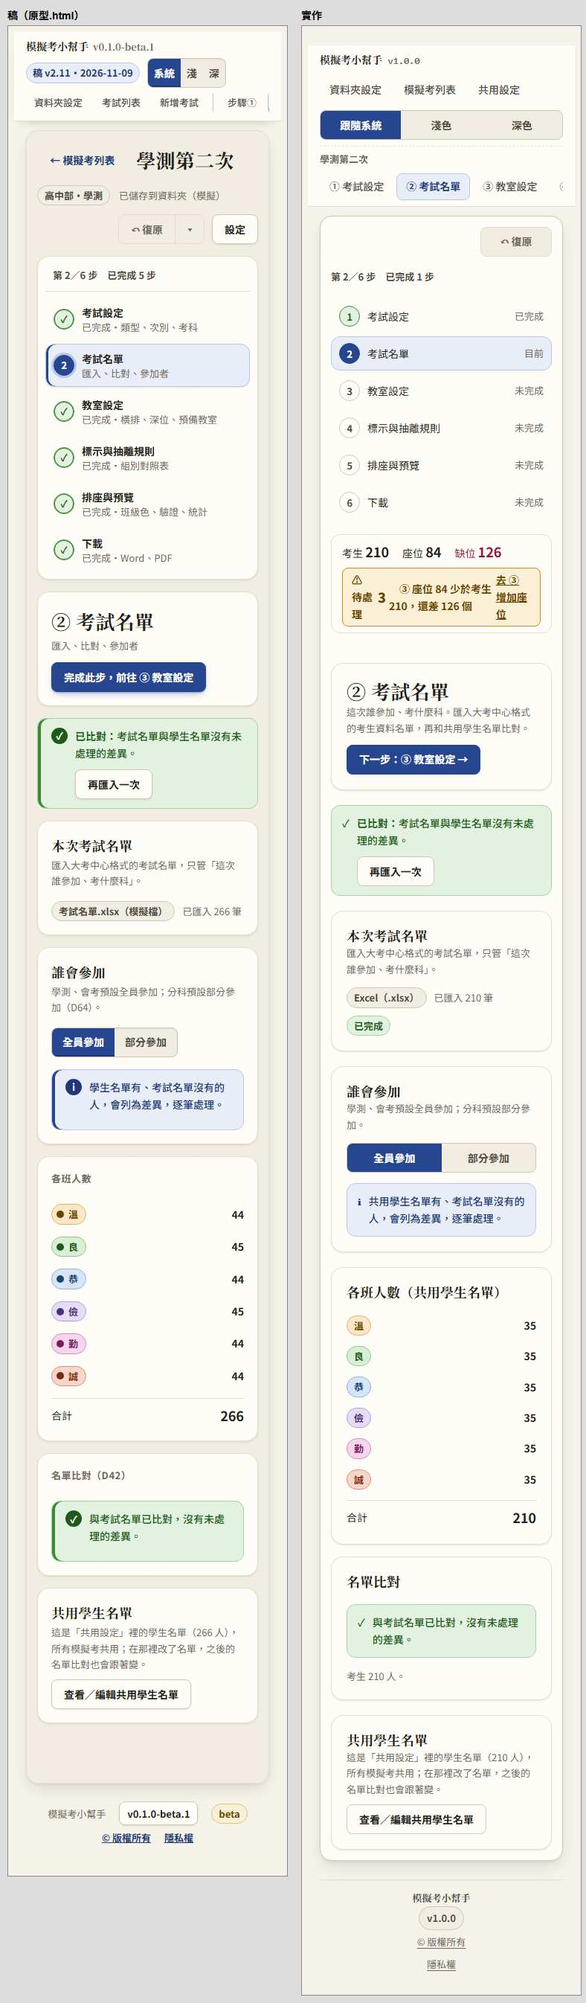
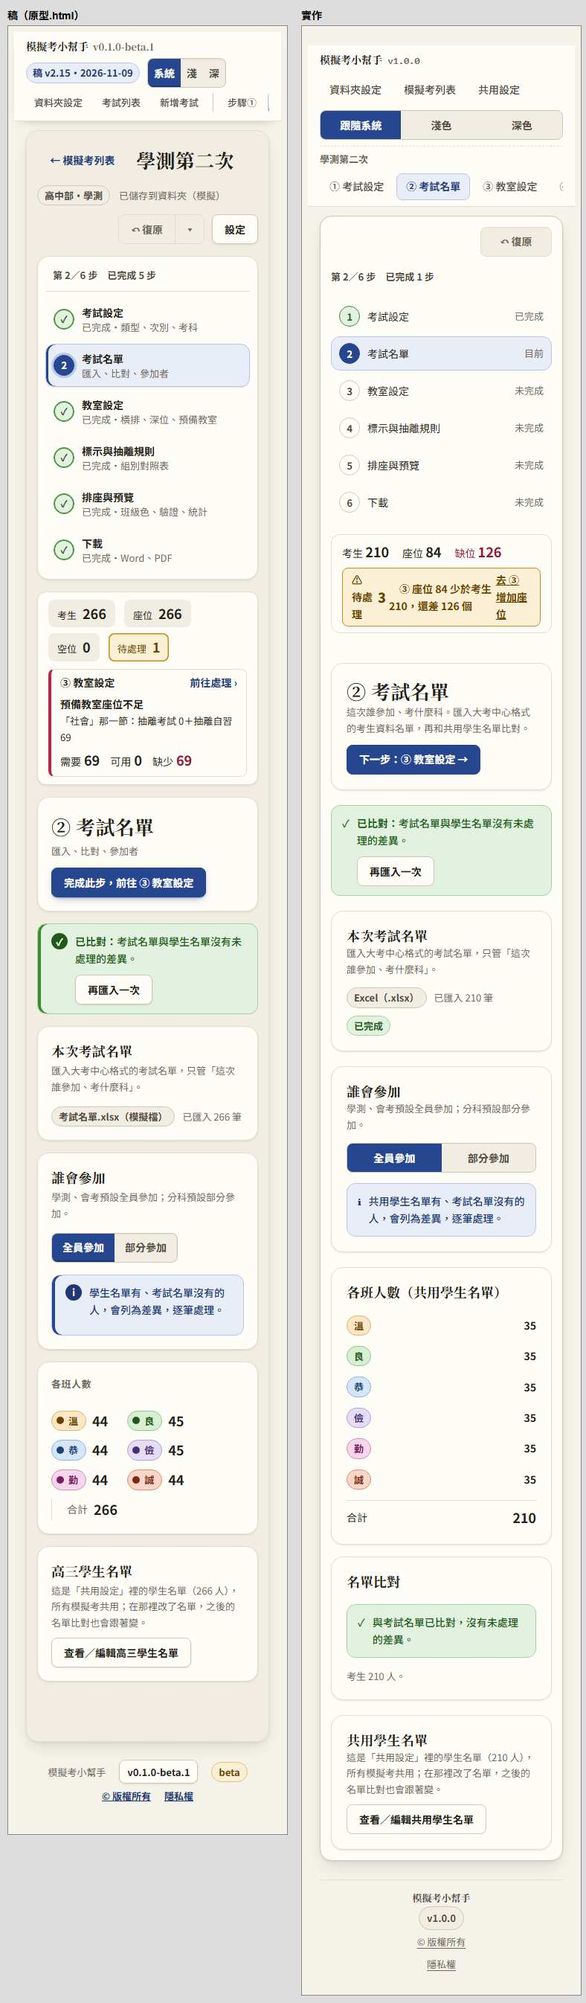
docs: 對稿-甲改依稿 v2.15 重驗（新增摘要列、學生名單命名、Chrome、拖放區等）

Changed region(s): [[0.0609, 0.2808, 0.4569, 0.9361], [0.3655, 0.8737, 0.4264, 0.9361]]

diff --git a/docs/design/實作對稿/對稿-甲.md b/docs/design/實作對稿/對稿-甲.md
@@ -1,111 +1,109 @@
-# 對稿-甲：實作 vs 稿（資料夾設定、考試列表、新增考試、步驟①、步驟②）
+# 對稿-甲（第二版，依稿 v2.15）：初始化、考試列表、新增考試、步驟①、步驟②
 
-基準：`origin/main` cf67141，稿 v2.11（`docs/design/mockups/原型.html` 版面基準、`設計系統.html` 元件／資訊基準）。稿以定案為準，實作要改成一致。
-方法：`scripts/compare-shots`（複製到暫存、改埠避免與其他對稿員撞埠）起 vite，headless Chrome 開稿與實作，淺色 375／1280 並排截圖（初始化、列表另有 820 與深色），並用腳本擷取兩邊的文字與按鈕尺寸逐項比對。所有資料為假資料（seed 的「甲生」「範例高中」），截圖在 `docs/design/實作對稿/截圖-甲/`（檔名＝頁名-寬度，左稿右實作）。
+基準：`origin/main` fe65909，稿 **v2.15**（`docs/design/mockups/原型.html` 版面、`設計系統.html` 元件與資訊）。第一版（稿 v2.11／main cf67141，ffb4d9e）已逐項重驗；`git diff cf67141 fe65909 -- src` 為空，**實作自上一版沒有任何改動**，所以第一版的實作端結論仍成立，只有稿端變了。
+規則：稿為準；稿上 D 編號與註解文字不進實作；`.pending` 不比；稿與規格衝突另列。
+方法：同第一版（`scripts/compare-shots` 複製到暫存、改埠，headless Chrome 開稿與實作，並排截圖＋文字與按鈕尺寸擷取）。截圖在 `截圖-甲/`（檔名＝頁名-寬度[深]，左稿右實作，淺色 375／820／1280，深色同寬）。全為假資料。**seed 假資料造成的差異（考科、人數、日期、座位數）不算**。
 
-**重要前提：seed 的假資料造成的差異不算**（例如學測第三次的考科顯示成「數學＋英聽」、各班人數、學生名單 0 人、日期、考生數）。下列只列畫面與行為差異。
+> **範圍說明**：調度員派工寫的負責頁面是「計畫頁・設定頁・初始化」，但本檔底稿與第一版範圍是「初始化、列表、新增考試、步驟①②」。本版沿用本檔範圍重驗；**計畫頁（拉皮稿）與設定頁未納入**，需調度員確認是否另派。
 
-## 一、差異總表（共 39 列；其中 A5、E10、E11、F6、F7 屬稿未定或未驗，不計入確定差異，確定差異 34 項：高 8、中 11、低 15）
+標記：仍成立／**過時**（稿已修掉或已不成立）／**新增**（v2.12～v2.15 帶來）／**衝突**。嚴重度：高＝肉眼一看就不同或功能缺；中＝元件或版面細部；低＝文字用詞。
 
-嚴重度：高＝肉眼一看就不同／功能缺；中＝元件或版面細部不同；低＝文字用詞。
+## 一、新增（v2.12～v2.15，屬本檔範圍）
 
-### A. 全頁共通（步驟①②都會遇到）
-
-| # | 類型 | 稿 | 實作 | 要改的地方 | 嚴重度 | 截圖 |
+| # | 類型 | 稿＝ | 實作＝ | 檔案 | 嚴重度 | 截圖 |
 |---|---|---|---|---|---|---|
-| A1 | UI | 步驟頁最上方一列標題列：「← 模擬考列表」＋考試名稱大標題＋類型 badge＋「已儲存到資料夾」＋「↶ 復原 ▾」＋「設定」鈕，整列在大外框內、左側欄之上 | 沒有這一列。考試名稱與 badge 改放在全站導覽下的次導覽列（名稱＋badge＋①～⑥ 分頁鈕）；「復原」單獨一列靠右；沒有「已儲存」、沒有「設定」入口、沒有返回列表鈕 | `App.tsx`、`StepSide.tsx`、步驟外框元件 | 高 | 04步驟①-1280 |
-| A2 | UI | 全站導覽只有稿工具列（稿特有，不算差異） | 實作多一排「① 考試設定 … ⑥ 下載」分頁鈕，與左側步驟欄重複 | 次導覽列（見 A1），稿沒有這排 | 中 | 04步驟①-1280 |
-| A3 | UI | 左側步驟欄：每項兩行——標題＋狀態與說明（如「已完成・匯入、比對、參加者」「過期・班級色、驗證、統計」），圖示 ✓／!／數字；欄寬約 208 | 每項一行：數字圓＋標題＋靠右的狀態字（目前／已完成／未完成），沒有說明文字、沒有「過期」「不需要」狀態、沒有 ✓／! 圖示；欄寬約 230 | `StepSide.tsx` 步驟列元件 | 高 | 04步驟①-1280、04步驟①-375 |
-| A4 | UI | 「第 1／6 步　已完成 4 步」在步驟欄頂端（兩邊都有，一致） | — | — | — | — |
-| A5 | UI | 沒有常駐摘要列（稿修正-todo B12，使用者尚待裁示） | 步驟欄上方多一列「考生 N 座位 N 空位 N 待處理 N」 | 列入「稿未定」；若使用者裁示不保留，實作要拿掉 | — | 04步驟①-1280 |
-| A6 | UI | 「下一步」鈕文字「完成此步，前往 ② 考試名單」，位於步驟標題卡右側 | 位置相同，文字「下一步：② 考試名單 →」 | 步驟標題卡 | 低 | 04步驟①-1280 |
-| A7 | UI | 步驟標題卡副標一句：「類型、次別、考科」「匯入、比對、參加者」（與步驟欄說明同源） | 副標是整句說明（「名稱、學期、次別與考科表；考科表決定…」「這次誰參加、考什麼科。匯入大考中心格式的考生資料名單…」） | 兩個步驟頁的標題卡文字 | 低 | 04步驟①-1280 |
-| A8 | UI | 稿的復原鈕在標題列，為「↶ 復原」＋「▾」（歷史）；列表頁沒有復原鈕 | 復原鈕在每頁（含新增考試、列表）頁面上方獨立一列靠右，沒有「▾」 | 復原按鈕元件與擺放位置 | 中 | 02模擬考列表-820、03新增模擬考-1280 |
-| A9 | UI | 右側「本次摘要」大字「上學期」單行 | 1280 寬時摘要欄太窄，「上學期／下學期」32px 大字折成兩行（「上學／期」），375 寬正常 | 摘要卡欄寬或字級；稿 v2.2 曾特別修過「學期單行」 | 高 | 04步驟①-1280、04d分科步驟①-1280 |
+| N1 | UI＋行為 | **常駐摘要列**（v2.12/v2.13/v2.15）：步驟內容上方，四格 chip「考生 266／座位 266／空位 0／待處理 1」，待處理為琥珀鈕可點跳第一個問題；其下「待處理逐項」卡：步驟（③ 教室設定）、項目標題（預備教室座位不足）、細節（「社會」那一節：抽離考試 0＋抽離自習 71）、右側「需要 71／可用 0／缺少 71」與「前往處理 ›」；未完成的步驟也算待處理；空位不足改「缺位」紅字；未匯入顯示「尚未匯入考試名單」 | 單行：左「考生 N 座位 N 缺位 N」，右一個琥珀框「⚠ 待處理 3　③ 座位 84 少於考生 210，還差 126 個　去 ③ 增加座位」。沒有四格 chip 樣式、沒有逐項卡、沒有「需要／可用／缺少」三欄、「前往處理」是行內底線連結；待處理只顯示第一項的一句話 | 摘要列元件（`.sumbar`）、`StepSide.tsx` | 高 | 04b步驟②待處理-1280、04步驟①-1280 |
+| N2 | UI | 步驟② 各班人數：**一排橫向班級 chip**（● 溫 44　● 良 45 … 合計 266），一張小卡 | 一張卡片，6 列直式表格（班級色圓＋人數）＋合計，與「名單比對」卡並排佔兩欄 | `Step2.tsx` | 中 | 04步驟②-1280、04b步驟②待處理-1280 |
+| N3 | UI | 步驟② **底部沒有「名單比對」小卡**（v2.15⑤，頂端比對結果提示條已涵蓋） | 仍有「名單比對」卡：「與考試名單已比對…」＋「考生 210 人。」 | `Step2.tsx` | 中 | 04步驟②-1280 |
+| N4 | 文字 | 學生名單命名依部別：步驟②卡片「**高三學生名單**／**國三學生名單**」，按鈕「查看／編輯高三學生名單」；步驟①沿用表「高三學生名單 266 人」 | 「共用學生名單」「查看／編輯共用學生名單」；步驟①沿用表「學生名單快照 210 人」；各班人數卡標題「各班人數（共用學生名單）」 | `Step2.tsx`、`Step1.tsx`、`carry.ts` | 中 | 04步驟②-1280 |
+| N5 | 文字＋元件 | 初始化：「**限使用 Chrome 瀏覽器**」，「Chrome」是連結（`https://www.google.com/intl/zh-TW/chrome/`，另開分頁） | 「需要 Chrome 瀏覽器」，純文字無連結 | `Init.tsx:56` | 中 | 01初始化-1280 |
+| N6 | UI | 初始化拖放區再加大：`min-height:clamp(280px,48vh,520px)`、padding 44/24（1280×900 約 580×430） | `clamp(200px,34vh,380px)`、padding 28/20（約 582×306） | `src/styles/app.css:206` | 中 | 01初始化-1280、01初始化-1280深 |
+| N7 | 文字 | 畫面上不再出現內部決定編號：稿已拿掉「（D52）」「（D34）」「（D42）」「（D64）」 | 實作本來就沒有（一致）。**第一版「稿疑似有誤」1、2 兩項過時** | — | — | — |
 
-### B. 資料夾設定（初始化）
+## 二、全頁共通（步驟①②都會遇到）
 
-| # | 類型 | 稿 | 實作 | 檔案 | 嚴重度 | 截圖 |
-|---|---|---|---|---|---|---|
-| B1 | UI | 大外框底色為米色（頁底），白卡片置於其上，層次明顯 | 外框與卡片同為近白，層次不明顯，看起來比稿「平」 | 外框 CSS（`app.css` 的 `.wrap`／卡片底） | 中 | 01初始化-1280 |
-| B2 | UI | 底部「原型說明」一段（稿特有，不算差異） | — | — | — | — |
-| B3 | 文字 | 提示：「每次模擬考都會在這個資料夾裡自己放一個資料夾，不同次的資料不會互相蓋掉。」 | 「…另外建立一個獨立的資料夾…」 | `Init.tsx` | 低 | 01初始化-1280 |
-| B4 | UI | 拖拉框、「或者／選擇資料夾／繼續使用上次的資料夾」列、尺寸（582×306，clamp(200px,34vh,380px)）：**一致** | 一致 | — | — | — |
+| # | 類型 | 稿＝ | 實作＝ | 檔案 | 嚴重度 | 狀態 | 截圖 |
+|---|---|---|---|---|---|---|---|
+| A1 | UI | 步驟頁最上方標題列：「← 模擬考列表」＋考試名稱大標題＋類型 badge＋「已儲存到資料夾」＋「↶ 復原 ▾」＋「設定」鈕 | 沒有這列；名稱與 badge 放在全站導覽下次導覽列；「復原」另起一列靠右；無「已儲存」、無「設定」入口、無返回列表鈕 | `App.tsx`、`StepSide.tsx` | 高 | 仍成立 | 04步驟①-1280 |
+| A2 | UI | 沒有「① 考試設定 … ⑥ 下載」分頁鈕列 | 次導覽列多一排分頁鈕，與左側步驟欄重複 | 次導覽列 | 中 | 仍成立 | 04步驟①-1280 |
+| A3 | UI | 左側步驟欄每項兩行：標題＋狀態與說明（如「已完成・匯入、比對、參加者」「過期・班級色、驗證、統計」）；✓／!／數字圖示；欄寬約 208 | 每項一行：數字圓＋標題＋靠右狀態字（目前／已完成／未完成），沒有說明、沒有「過期」「不需要」狀態與 ✓／! 圖示；欄寬約 230 | `StepSide.tsx` | 高 | 仍成立 | 04步驟①-1280、04步驟①-375 |
+| A5 | — | 摘要列已定案（見 N1） | — | — | — | **過時**（第一版列為稿未定，現已定案，改併入 N1） | — |
+| A6 | 文字 | 下一步鈕「完成此步，前往 ② 考試名單」，在步驟標題卡右側 | 位置相同；文字「下一步：② 考試名單 →」 | 步驟標題卡 | 低 | 仍成立 | 04步驟①-1280 |
+| A7 | 文字 | 標題卡副標一句：「類型、次別、考科」「匯入、比對、參加者」 | 整句說明（「名稱、學期、次別與考科表；…」「這次誰參加、考什麼科。匯入大考中心格式的考生資料名單…」） | 兩個步驟頁標題卡 | 低 | 仍成立 | 04步驟①-1280 |
+| A8 | UI | 復原鈕在標題列，「↶ 復原」＋「▾」歷史；列表頁沒有復原鈕 | 復原鈕在每頁（含列表、新增考試）頁頂獨立一列靠右，無「▾」 | 復原按鈕元件 | 中 | 仍成立 | 02模擬考列表-820、03新增模擬考-1280 |
+| A9 | UI | 右側「本次摘要」大字「上學期」單行 | 1280 寬時「上學期／下學期」32px 大字折成兩行；375 寬正常 | 摘要卡欄寬／字級 | 高 | 仍成立 | 04步驟①-1280 |
 
-### C. 考試列表
+## 三、初始化
 
-| # | 類型 | 稿 | 實作 | 檔案 | 嚴重度 | 截圖 |
-|---|---|---|---|---|---|---|
-| C1 | UI | 資料夾路徑 chip 顯示完整路徑「D:\模擬考資料」 | 只顯示資料夾名「模擬考資料」（瀏覽器取不到完整路徑，可能是平台限制；需裁示是否接受） | `Exams.tsx` | 低 | 02模擬考列表-820 |
-| C2 | UI | 列表頁頁首沒有復原鈕 | 多一個「↶ 復原」（見 A8） | `Exams.tsx` | 中 | 02模擬考列表-820 |
-| C3 | 文字 | 進度文字「進行中：排座與預覽」 | 「進行中：③ 教室設定」，多了圈號 | `examList.ts` | 低 | 02模擬考列表-820 |
-| C4 | UI | 頁首兩列：全站導覽、標題與按鈕在外框內 | 實作導覽在外框外，標題在框內，與稿相同；版面一致 | — | — | — |
+| # | 類型 | 稿＝ | 實作＝ | 檔案 | 嚴重度 | 狀態 | 截圖 |
+|---|---|---|---|---|---|---|---|
+| B1 | UI | 大外框米色底，白卡片置於其上，層次明顯 | 外框與卡片同為近白，層次不明顯 | `app.css` 外框／卡片底 | 中 | 仍成立 | 01初始化-1280 |
+| B3 | 文字 | 「…裡自己放一個資料夾，不同次的資料不會互相蓋掉。」 | 「…另外建立一個獨立的資料夾…」 | `Init.tsx` | 低 | 仍成立 | 01初始化-1280 |
+| （拖拉框與「或者／選擇資料夾／繼續使用上次的資料夾」列的位置、樣式一致；尺寸見 N6；Chrome 字樣見 N5） | | | | | | | |
 
-（列表卡片、六格進度、圖例、頁尾版本號鈕、開啟鈕：與稿一致。）
+## 四、考試列表
 
-### D. 新增考試
+| # | 類型 | 稿＝ | 實作＝ | 檔案 | 嚴重度 | 狀態 | 截圖 |
+|---|---|---|---|---|---|---|---|
+| C1 | UI | 路徑 chip 顯示「D:\模擬考資料」 | 只顯示「模擬考資料」（瀏覽器取不到完整路徑，平台限制；列為「需使用者決定」） | `Exams.tsx` | 低 | 仍成立 | 02模擬考列表-820 |
+| C2 | UI | 列表頁沒有復原鈕 | 多一個「↶ 復原」（見 A8） | `Exams.tsx` | 中 | 仍成立 | 02模擬考列表-820 |
+| C3 | 文字 | 進度「進行中：排座與預覽」 | 「進行中：③ 教室設定」，多圈號 | `examList.ts` | 低 | 仍成立 | 02模擬考列表-820 |
 
-| # | 類型 | 稿 | 實作 | 檔案 | 嚴重度 | 截圖 |
-|---|---|---|---|---|---|---|
-| D1 | 元件 | 「學期」是並排選項卡：「上學期［已選］」「下學期」（寬約 132／76，高 45） | 原生 `<select>` 下拉（262×40） | `NewExam.tsx:68`（`<select id="exam-term">`） | 高 | 03新增模擬考-1280 |
-| D2 | 文字 | 學期下方說明：「學測預設上學期、分科預設下學期（切換類型時自動帶入，仍可自己改）；學年度依今天的日期自動算：115 學年」 | 只有「學年度依今天的日期自動算：115 學年」，沒有預設說明 | `NewExam.tsx` | 中 | 03新增模擬考-1280 |
-| D3 | 文字 | 會考卡：「…（固定七科），不分文理組、沒有選考」 | 「…（固定七科），沒有選考」，少「不分文理組」 | `NewExam.tsx` 類型卡文字 | 低 | 03新增模擬考-1280 |
-| D4 | 文字 | 第 3 張卡說明：「會帶入『某某』的設定：學生名單、教室、標示與抽離規則、名稱以外的選項」 | 「會帶入『某某』的設定：教室、標示與抽離規則、參加方式、標籤格式與自訂考科」，內容不同（且稿寫的是學生名單） | `NewExam.tsx` | 中 | 03新增模擬考-1280 |
-| D5 | UI | 「← 回模擬考列表」按鈕高 40、寬 135（正常按鈕） | 高 32、寬 115（小按鈕尺寸） | `NewExam.tsx` 頁首鈕 | 低 | 03新增模擬考-1280 |
-| D6 | UI | 第 3 張卡說明沒有圖示（單純文字） | 帶 ℹ 圖示的 info alert | `NewExam.tsx` | 低 | 03新增模擬考-1280 |
-| D7 | 行為 | 切換類型時學期自動帶入（學測上、分科下）、手動改後不再自動 | 邏輯已有（`defaultSemester`、`semEdited`），行為一致 | — | — | — |
+## 五、新增考試
 
-### E. 步驟① 考試設定
+| # | 類型 | 稿＝ | 實作＝ | 檔案 | 嚴重度 | 狀態 | 截圖 |
+|---|---|---|---|---|---|---|---|
+| D1 | 元件 | 「學期」並排選項卡（「上學期［已選］」「下學期」，高 45） | 原生 `<select>` 下拉（262×40） | `NewExam.tsx:68` | 高 | 仍成立 | 03新增模擬考-1280 |
+| D2 | 文字 | 學期說明：「學測預設上學期、分科預設下學期（切換類型時自動帶入，仍可自己改）；學年度依今天的日期自動算：115 學年」 | 只有「學年度依今天的日期自動算：115 學年」 | `NewExam.tsx` | 中 | 仍成立 | 03新增模擬考-1280 |
+| D3 | 文字 | 會考卡「…（固定七科），不分文理組、沒有選考」 | 「…沒有選考」，少「不分文理組」 | `NewExam.tsx` | 低 | 仍成立 | 03新增模擬考-1280 |
+| D4 | 文字 | 第 3 張卡：「會帶入『某某』的設定：學生名單、教室、標示與抽離規則、名稱以外的選項」 | 「…：教室、標示與抽離規則、參加方式、標籤格式與自訂考科」，內容不同 | `NewExam.tsx` | 中 | 仍成立 | 03新增模擬考-1280 |
+| D5 | UI | 「← 回模擬考列表」高 40、寬 135 | 高 32、寬 115（小按鈕） | `NewExam.tsx` | 低 | 仍成立 | 03新增模擬考-1280 |
+| D6 | UI | 第 3 張卡說明沒有圖示 | 帶 ℹ 圖示 info alert | `NewExam.tsx` | 低 | 仍成立 | 03新增模擬考-1280 |
 
-| # | 類型 | 稿 | 實作 | 檔案 | 嚴重度 | 截圖 |
-|---|---|---|---|---|---|---|
-| E1 | 元件 | 「學期」並排選項卡（同 D1），名稱與學期在同一列兩欄 | `<select>`，欄位為上下兩欄（名稱列、學期列堆疊） | `Step1.tsx` | 高 | 04步驟①-1280 |
-| E2 | UI | 基本資料沒有卡片標題；直接是欄位（在步驟標題卡之下的卡片內） | 卡片有 h3「基本資料」＋副標「類型建立後不可更改。」 | `Step1.tsx` | 低 | 04步驟①-1280 |
-| E3 | 文字 | 學期說明：「學測預設上學期、分科預設下學期；學年度（115）依建立日期自動算」 | 「學年度依建立日期自動算」，沒有預設說明、沒有學年度數字 | `Step1.tsx` | 中 | 04步驟①-1280 |
-| E4 | 文字 | 「類型與對象」：「高中部・學測」「高三」 | 「學測」「高三」，少「高中部・」 | `Step1.tsx` | 低 | 04步驟①-1280 |
-| E5 | 文字 | 次別說明：「第 1、2 次數學是單一科，第 3 次起分為數學A、數學B」 | 「第 1、2 次：數學為單一科，另考英聽　｜　第 3 次起：數學分為數學A、數學B」 | `Step1.tsx` | 低 | 04步驟①-1280 |
-| E6 | UI | 375 寬次別鈕一排四顆等寬 | 375 寬時四顆鈕擠成窄鈕，字折行（「第一／次」） | `Step1.tsx` 次別 seg 鈕 | 中 | 04步驟①-375 |
-| E7 | 文字 | 考科表標題「考科表」，副標「依類型與次別自動帶出，可以新增、編輯、刪除（D52）」（D52 為稿內部字樣） | 標題「本次考科表」，副標「…；只影響這一次模擬考。」 | `Step1.tsx` | 低 | 04步驟①-1280 |
-| E8 | 文字 | 沿用表第二列：「共用學生名單 266 人；…」；第四列：「數學由單一科改為數學A、數學B，組別對照表要重新確認」 | 「學生名單快照 210 人；…」（D84：現況應稱「共用學生名單」）；「數學分科方式與上次不同…」 | `Step1.tsx` 沿用表、`carry.ts` | 中 | 04步驟①-1280 |
-| E9 | UI | 摘要卡副標：「高中部・學測・115 學年・高三」 | 「學測・115 學年・高中部」，順序與內容不同 | `StepSide.tsx` | 低 | 04步驟①-1280 |
-| E10 | 行為 | 沒有「次別改了，④ 已標為過期」的警示卡 | 摘要欄下方多一張琥珀警示卡（可能是改次別後才有；seed 觸發） | `StepSide.tsx` | 低 | 04步驟①-1280 |
-| E11 | UI | 分科：次別欄標「分科有沒有次別…還沒確認」（`.pending`，稿未定，見第三節） | 沒有次別欄 | — | — | 04d分科步驟①-1280 |
-| E12 | 文字／UI | 分科考科表上方有一則說明 alert：「分科八科都是選考：數學甲…；國文、英文不加考（採學測成績）。每位考生考哪幾科，依考試名單的「組別／考科」文字決定…」 | 沒有這則 alert（會考、學測有 alert，分科缺） | `Step1.tsx` | 中 | 04d分科步驟①-1280 |
+## 六、步驟① 考試設定
 
-### F. 步驟② 考試名單
+| # | 類型 | 稿＝ | 實作＝ | 檔案 | 嚴重度 | 狀態 | 截圖 |
+|---|---|---|---|---|---|---|---|
+| E1 | 元件 | 學期並排選項卡；名稱與學期同一列兩欄 | `<select>`；名稱列、學期列上下堆疊 | `Step1.tsx` | 高 | 仍成立 | 04步驟①-1280 |
+| E2 | UI | 基本資料沒有卡片標題 | 卡片有 h3「基本資料」＋副標 | `Step1.tsx` | 低 | 仍成立 | 04步驟①-1280 |
+| E3 | 文字 | 「學測預設上學期、分科預設下學期；學年度（115）依建立日期自動算」 | 「學年度依建立日期自動算」 | `Step1.tsx` | 中 | 仍成立 | 04步驟①-1280 |
+| E4 | 文字 | 「高中部・學測」「高三」 | 「學測」「高三」 | `Step1.tsx` | 低 | 仍成立 | 04步驟①-1280 |
+| E5 | 文字 | 「第 1、2 次數學是單一科，第 3 次起分為數學A、數學B」 | 「第 1、2 次：數學為單一科，另考英聽　｜　第 3 次起：…」 | `Step1.tsx` | 低 | 仍成立 | 04步驟①-1280 |
+| E6 | UI | 375 寬次別鈕一排四顆等寬 | 375 寬四顆鈕過窄、字折行（「第一／次」） | `Step1.tsx` | 中 | 仍成立 | 04步驟①-375 |
+| E7 | 文字 | 標題「考科表」，副標「依類型與次別自動帶出，可以新增、編輯、刪除」（v2.15 已去掉 D52） | 標題「本次考科表」，副標多「；只影響這一次模擬考。」 | `Step1.tsx` | 低 | 仍成立（稿已去 D52，只剩標題與副標差異） | 04步驟①-1280 |
+| E8 | 文字 | 沿用表：「高三學生名單 266 人；…」「數學由單一科改為數學A、數學B，組別對照表要重新確認」 | 「學生名單快照 210 人；…」「數學分科方式與上次不同…」 | `Step1.tsx`、`carry.ts` | 中 | 仍成立（名稱見 N4） | 04步驟①-1280 |
+| E9 | 文字 | 摘要卡副標「高中部・學測・115 學年・高三」 | 「學測・115 學年・高中部」 | `StepSide.tsx` | 低 | 仍成立 | 04步驟①-1280 |
+| E10 | 行為 | 沒有「次別改了，④ 已標為過期」警示卡 | 摘要欄下多一張琥珀警示卡（改次別後出現） | `StepSide.tsx` | 低 | 仍成立（是否算實作多餘，待使用者裁示；稿未畫） | 04步驟①-1280 |
+| E12 | 文字／UI | 分科考科表上方 alert：「分科八科都是選考：數學甲…；國文、英文不加考（採學測成績）。每位考生考哪幾科，依考試名單的「組別／考科」文字決定…」 | 沒有這則 alert | `Step1.tsx` | 中 | 仍成立 | 04d分科步驟①-1280 |
 
-| # | 類型 | 稿 | 實作 | 檔案 | 嚴重度 | 截圖 |
-|---|---|---|---|---|---|---|
-| F1 | 文字 | 檔名 badge：「考試名單.xlsx（模擬檔）」 | 「Excel（.xlsx）」＋多一個「已完成」badge | `Step2.tsx` | 低 | 04步驟②-1280 |
-| F2 | 文字 | 「各班人數」 | 「各班人數（共用學生名單）」 | `Step2.tsx` | 低 | 04步驟②-1280 |
-| F3 | 文字 | 「名單比對（D42）」（內部編號，稿字樣） | 「名單比對」＋多一行「考生 210 人。」 | `Step2.tsx` | 低 | 04步驟②-1280 |
-| F4 | UI | 「誰會參加」下的提示：全員參加為純文字，部分參加為提示 | 兩種皆為 ℹ info alert（版型略不同）；文字也不同（稿：「沒報名的人不算差異，只在統計列顯示「未參加 12 人」…」；實作：「共用學生名單裡有、但不在本次考試名單的人，不視為名單錯誤，只在…」） | `Step2.tsx:178 附近` | 低 | 04d分科步驟②-1280 |
-| F5 | UI | 分科：「匯入預覽：組別／考科」整張卡（說明＋六列預覽表：班級、座號、姓名、名單上的「組別／考科」、解析出的選考科目，含預設理組／文組、「依名單」標示） | 步驟頁沒有這張卡（可能只在匯入精靈內；本次沒有實際走匯入精靈驗證） | `Step2.tsx`、`ImportWizard.tsx` | 高 | 04d分科步驟②-1280 |
-| F6 | UI | 分科：預覽卡下有「標少數與抽離沿用學測…」小字（含 `.pending`） | 沒有 | — | — | 04d分科步驟②-1280 |
-| F7 | 行為 | 名單比對為獨立頁面：統計（差異／已處理／未處理）、每筆一張卡（編號、類型 badge、考試名單 vs 學生名單、三選一：以考試名單為準／以學生名單為準／手動編輯）、新增班級（D83）、全科缺考（D79）、「先不處理」「還有 N 筆沒選」 | 原始碼有對應（`Step2.tsx` 94–130、214–232：先不處理、手動編輯、全科缺考勾選）；**本次沒有實際走到比對畫面**（seed 沒有差異），畫面是否與稿一致未驗 | `Step2.tsx` | 未驗 | 04e名單比對-1280（實作右側停在步驟②總覽） |
-| F8 | UI | 狀態 alert 內按鈕「再匯入一次」＝一般大小；實作為 ConfirmButton（有確認視窗）——稿沒描述 | 實作多確認視窗（`confirmCopy.reimportList`），稿未畫 | `Step2.tsx:143` | 低（實作多出，屬稿未畫） | — |
+## 七、步驟② 考試名單
 
-## 二、最嚴重的 5 項
-1. **A1 標題列**：步驟頁缺「← 模擬考列表／名稱／badge／已儲存／復原▾／設定」整列（所有步驟頁共通）。
-2. **A3 步驟欄**：欄內項目缺說明文字與「過期」「不需要」狀態、圖示不同。
-3. **D1／E1 學期元件**：稿是並排選項卡，實作是下拉（新增考試與步驟①）。
-4. **A9 摘要卡**：1280 寬「上學期」折成兩行。
-5. **F5 分科匯入預覽**：步驟②沒有「組別／考科」預覽卡（若只存在於精靈中也需確認）。
+| # | 類型 | 稿＝ | 實作＝ | 檔案 | 嚴重度 | 狀態 | 截圖 |
+|---|---|---|---|---|---|---|---|
+| F1 | 文字 | 檔名 badge「考試名單.xlsx（模擬檔）」 | 「Excel（.xlsx）」＋多「已完成」badge | `Step2.tsx` | 低 | 仍成立 | 04步驟②-1280 |
+| F2 | — | （各班人數見 N2、N4） | — | — | — | **過時**，併入 N2／N4 | — |
+| F3 | — | （底部「名單比對」見 N3） | — | — | — | **過時**，併入 N3 | — |
+| F4 | UI＋文字 | 「誰會參加」提示：部分參加時「沒報名的人不算差異，只在統計列顯示「未參加 12 人」，不排座、不出現在座位表」 | ℹ info alert，措辭不同：「共用學生名單裡有、但不在本次考試名單的人，不視為名單錯誤，只在…」 | `Step2.tsx` | 低 | 仍成立 | 04d分科步驟②-1280 |
+| F5 | UI | 分科：「匯入預覽：組別／考科」整張卡（說明＋預覽表：班級、座號、姓名、名單上的「組別／考科」、解析出的選考科目，含預設理組／文組、「依名單」標示） | 步驟頁沒有這張卡（可能只在匯入精靈；未走精靈驗證） | `Step2.tsx`、`ImportWizard.tsx` | 高 | 仍成立 | 04d分科步驟②-1280 |
+| F7 | 行為 | 名單比對為獨立頁：統計、逐筆卡、三選一（以考試名單為準／以學生名單為準／手動編輯）、新增班級、全科缺考、「先不處理」「還有 N 筆沒選」 | 原始碼有對應（`Step2.tsx` 94–130、214–232）；本次沒走到比對畫面，**畫面是否一致未驗** | `Step2.tsx` | 未驗 | 仍成立 | — |
+| F8 | 行為 | 「再匯入一次」直接進行 | 先跳確認視窗（`confirmCopy.reimportList`），稿未畫 | `Step2.tsx:143` | 低 | 仍成立（實作多出） | — |
 
-## 三、稿未定（稿上標 `.pending`，不算差異）
-- 分科次別（有無、怎麼分，原型 837 行）；分科標少數與抽離沿用學測、組別代碼表（1183）；教室文理組未確認標記（1292）；「接近一半」門檻（1319）；個別覆寫換座位限制（1362）。
-- 常駐摘要列保留與否（稿修正-todo B12，使用者尚待裁示）→ 見 A5。
+## 八、衝突（稿與規格互相衝突，不自行決定）
 
-## 四、稿疑似有誤（只記錄，不改）
-1. 稿內「D52」「D34」「D42」等決定編號直接顯示在畫面文字（考科表副標、沿用上次卡、名單比對）——給使用者看的畫面不該出現內部編號。
-2. 稿步驟①的考科表副標與沿用卡說明寫「（D52）」「（D34）」，實作沒有；以稿為準會把內部編號搬進實作，建議先問。
-3. 稿列表頁「D:\模擬考資料」完整路徑，網頁無法取得，實作不可能一致（見 C1）。
-4. 稿 1280 寬步驟①的資料（數學A／B）與 seed 不同純屬資料，非稿錯。
-5. 稿「下一步」鈕文字與 D58 描述「完成此步，前往…」一致，但 D88 說「下一步放標題卡右側」；兩者不衝突，僅提醒文字以哪一版為準。
+| # | 稿＝ | 規格＝ | 需要誰決定 |
+|---|---|---|---|
+| X1 | 初始化「限使用 Chrome 瀏覽器」，Chrome 為連結（v2.15，使用者 2026-11-09 留言） | `decisions.md` D53：「畫面文字只寫『需要 Chrome』；偵測到非 Chrome 時提醒一次」；實作 `Init.tsx:56`、`62` 現為「需要 Chrome」「請改用 Chrome 開啟」 | 使用者（以 v2.15 為準，同時更新 D53 字面） |
+| X2 | 稿列表頁路徑 chip「D:\模擬考資料」完整路徑 | 瀏覽器 File System Access 取不到完整路徑，實作不可能一致 | 使用者（稿改成資料夾名，或接受差異） |
 
-## 五、沒驗到的地方
-- **寬度**：初始化、列表有 375／820／1280；新增考試、步驟①②只看 375／1280，**820 沒看**。
-- **深色**：只看初始化與列表（淺深各 3 寬）的截圖檔，步驟①② 與新增考試沒有看深色；深色是否有差異未驗。
-- **頁面**：名單比對頁、匯入精靈（含 xlsx 解析畫面、未知班級新增、全科缺考）沒實際走到（seed 無差異、沒有執行匯入）；F5／F7 只能靠原始碼與稿比對。其他彈窗（考科編輯視窗、確認視窗）沒比。
-- **行為**：只驗了新增考試學期預設（原始碼確認，`NewExam.tsx` 的 `defaultSemester` 與 `semEdited`），沒實際點過學期切換；步驟①次別改動後的連動警示只看到結果沒追原因。
-- 資料：seed 使 6 個項目（考科、人數、時間）不同，已排除。
+## 九、稿未定（`.pending`，不比）
+分科次別（有無、怎麼分）、分科標少數與抽離沿用學測／組別代碼表、教室文理組未確認標記、「接近一半」門檻、個別覆寫換座位限制。**常駐摘要列已不是稿未定**（見 N1）。
+
+## 十、第一版「稿疑似有誤」重驗
+1、2（稿內 D 編號）：**過時**，v2.15 已拿掉。3（路徑）：轉為衝突 X2。其餘不變。
+
+## 十一、沒驗到的地方
+- **範圍**：計畫頁（拉皮稿）、設定頁未納入；步驟③ 的座位上限 A3 49／B4 48 與教室說明句（v2.13/v2.14）不在本檔頁面，沒比。
+- **頁面**：名單比對頁、匯入精靈、考科編輯視窗未走到（seed 無差異）。
+- **深色**：淺深各寬度都有截圖，但只細看了初始化深色；其餘頁的深色未逐項比。
+- **行為**：新增考試學期預設只讀原始碼（`defaultSemester`、`semEdited`）；摘要列「點待處理跳第一個問題」的互動、「待處理逐項」在多項時的樣子沒實測（seed 只有一項問題）。
+- seed 假資料造成的差異已排除。
